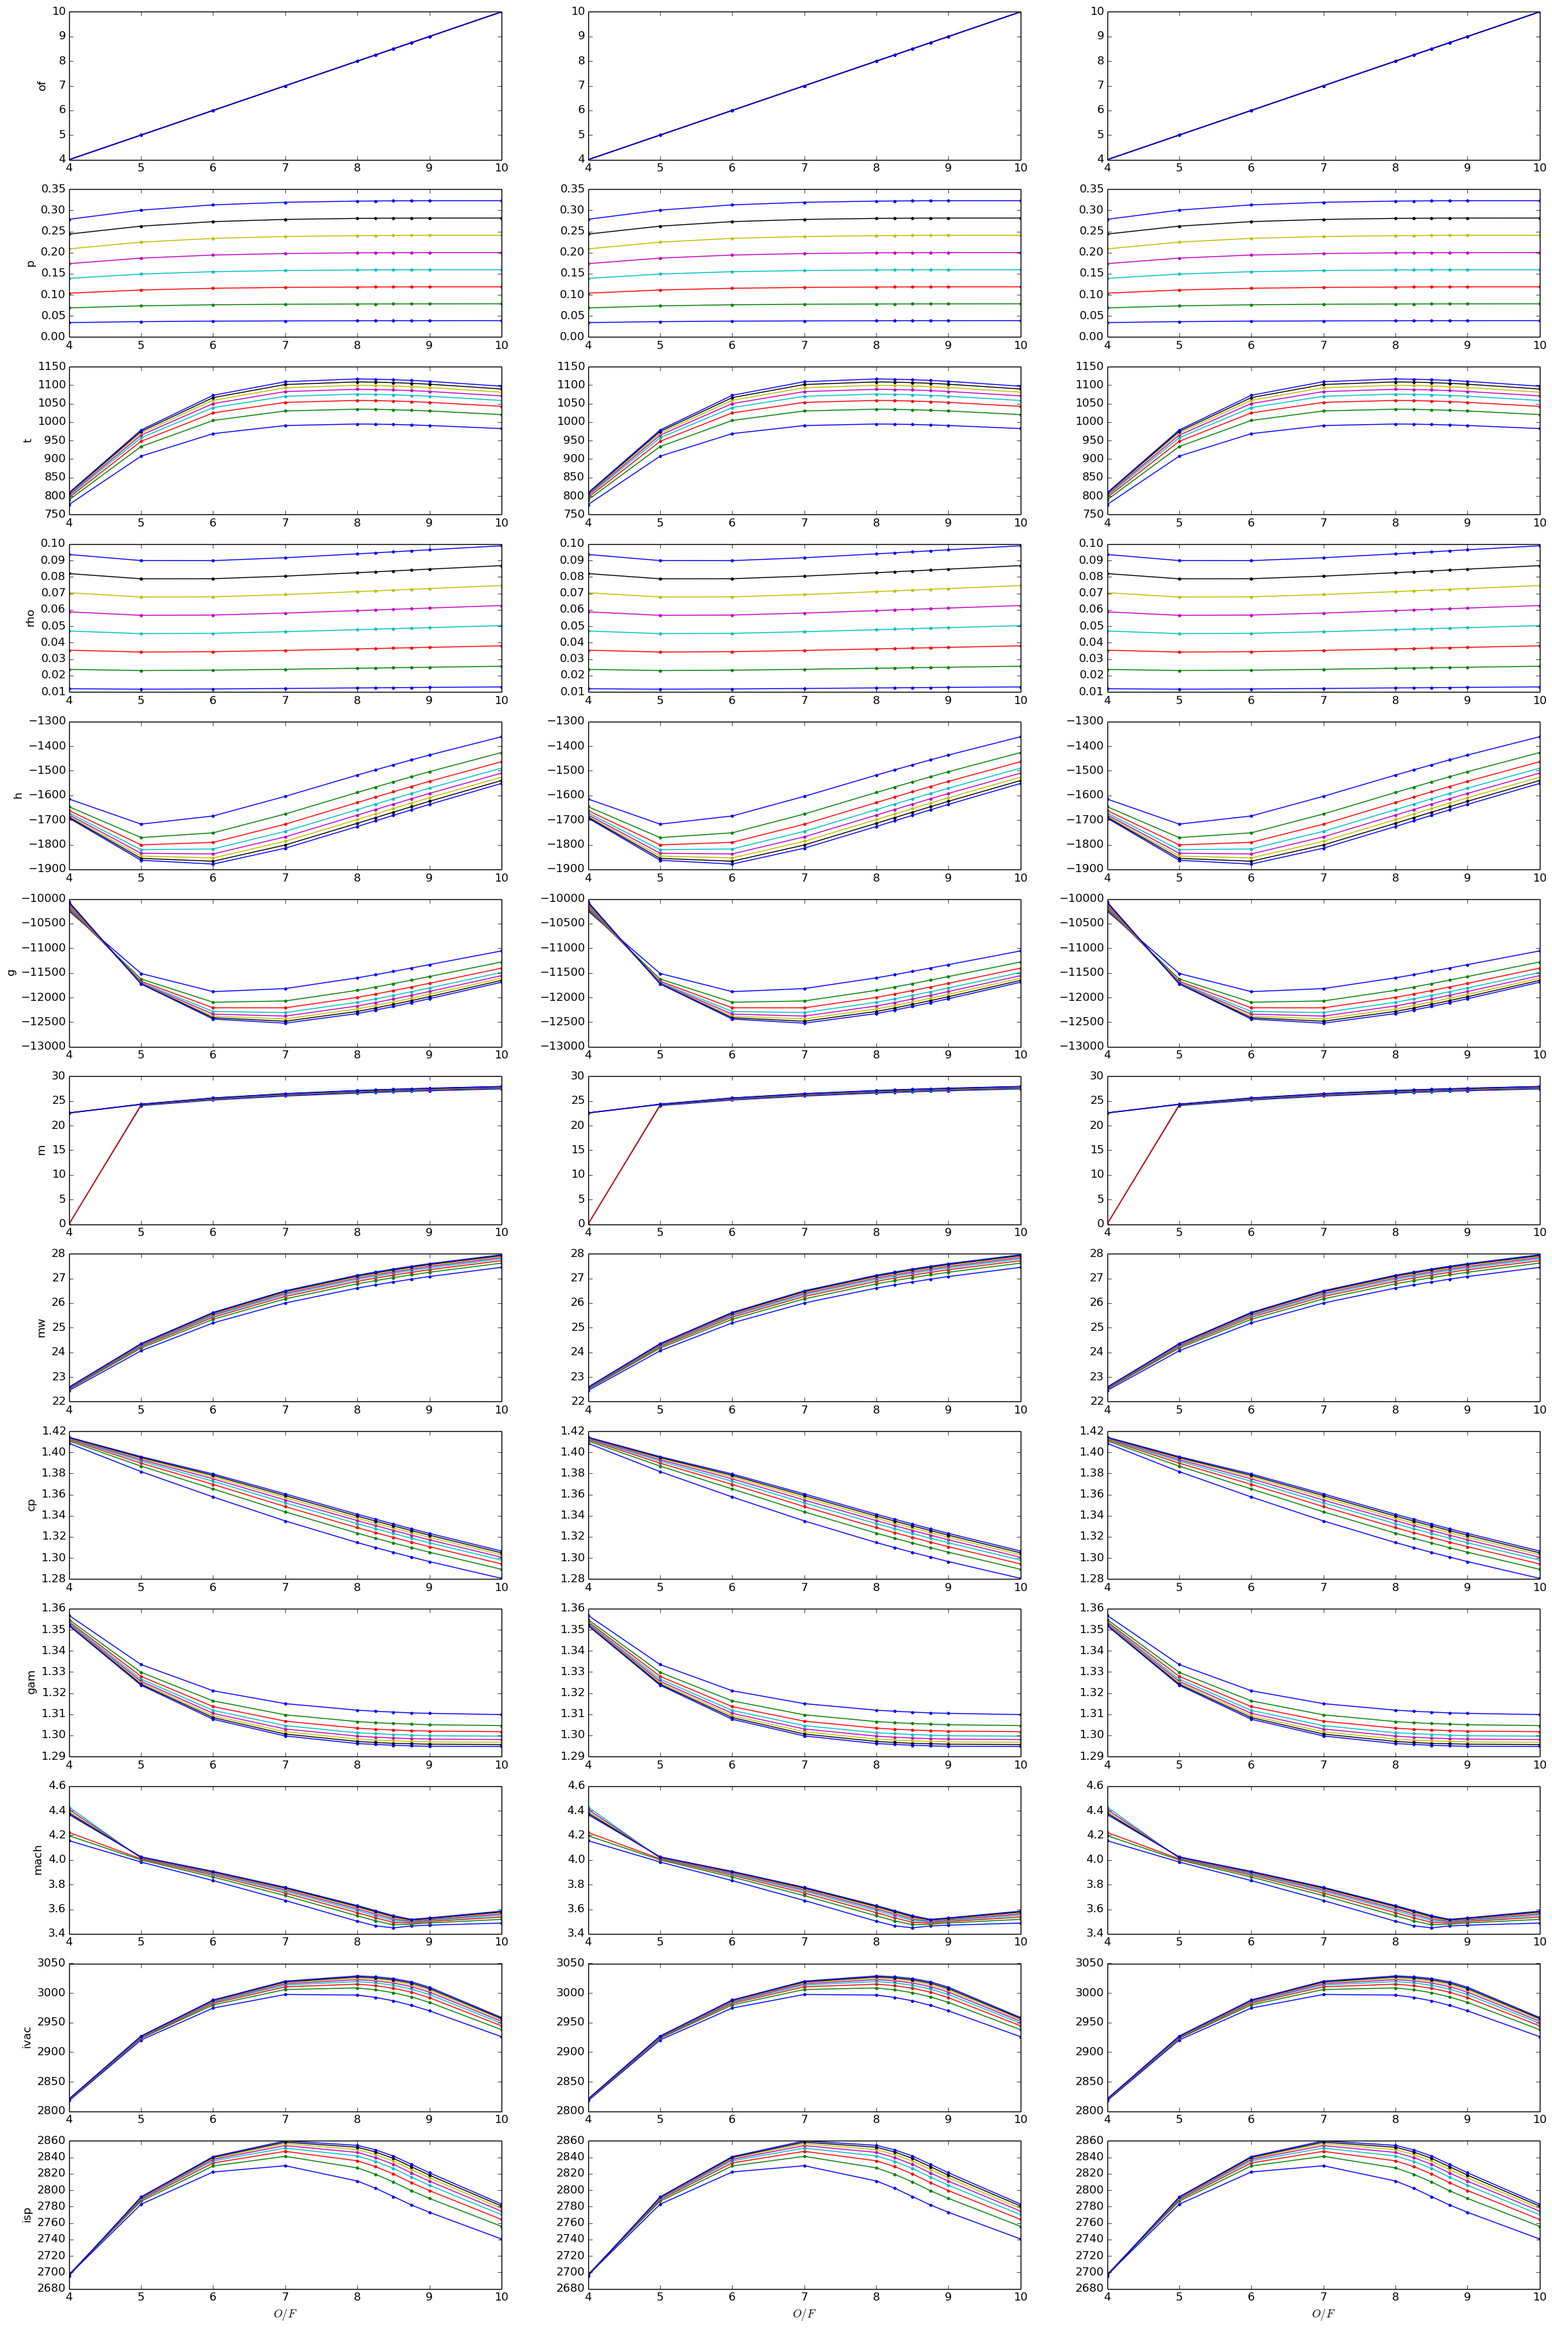
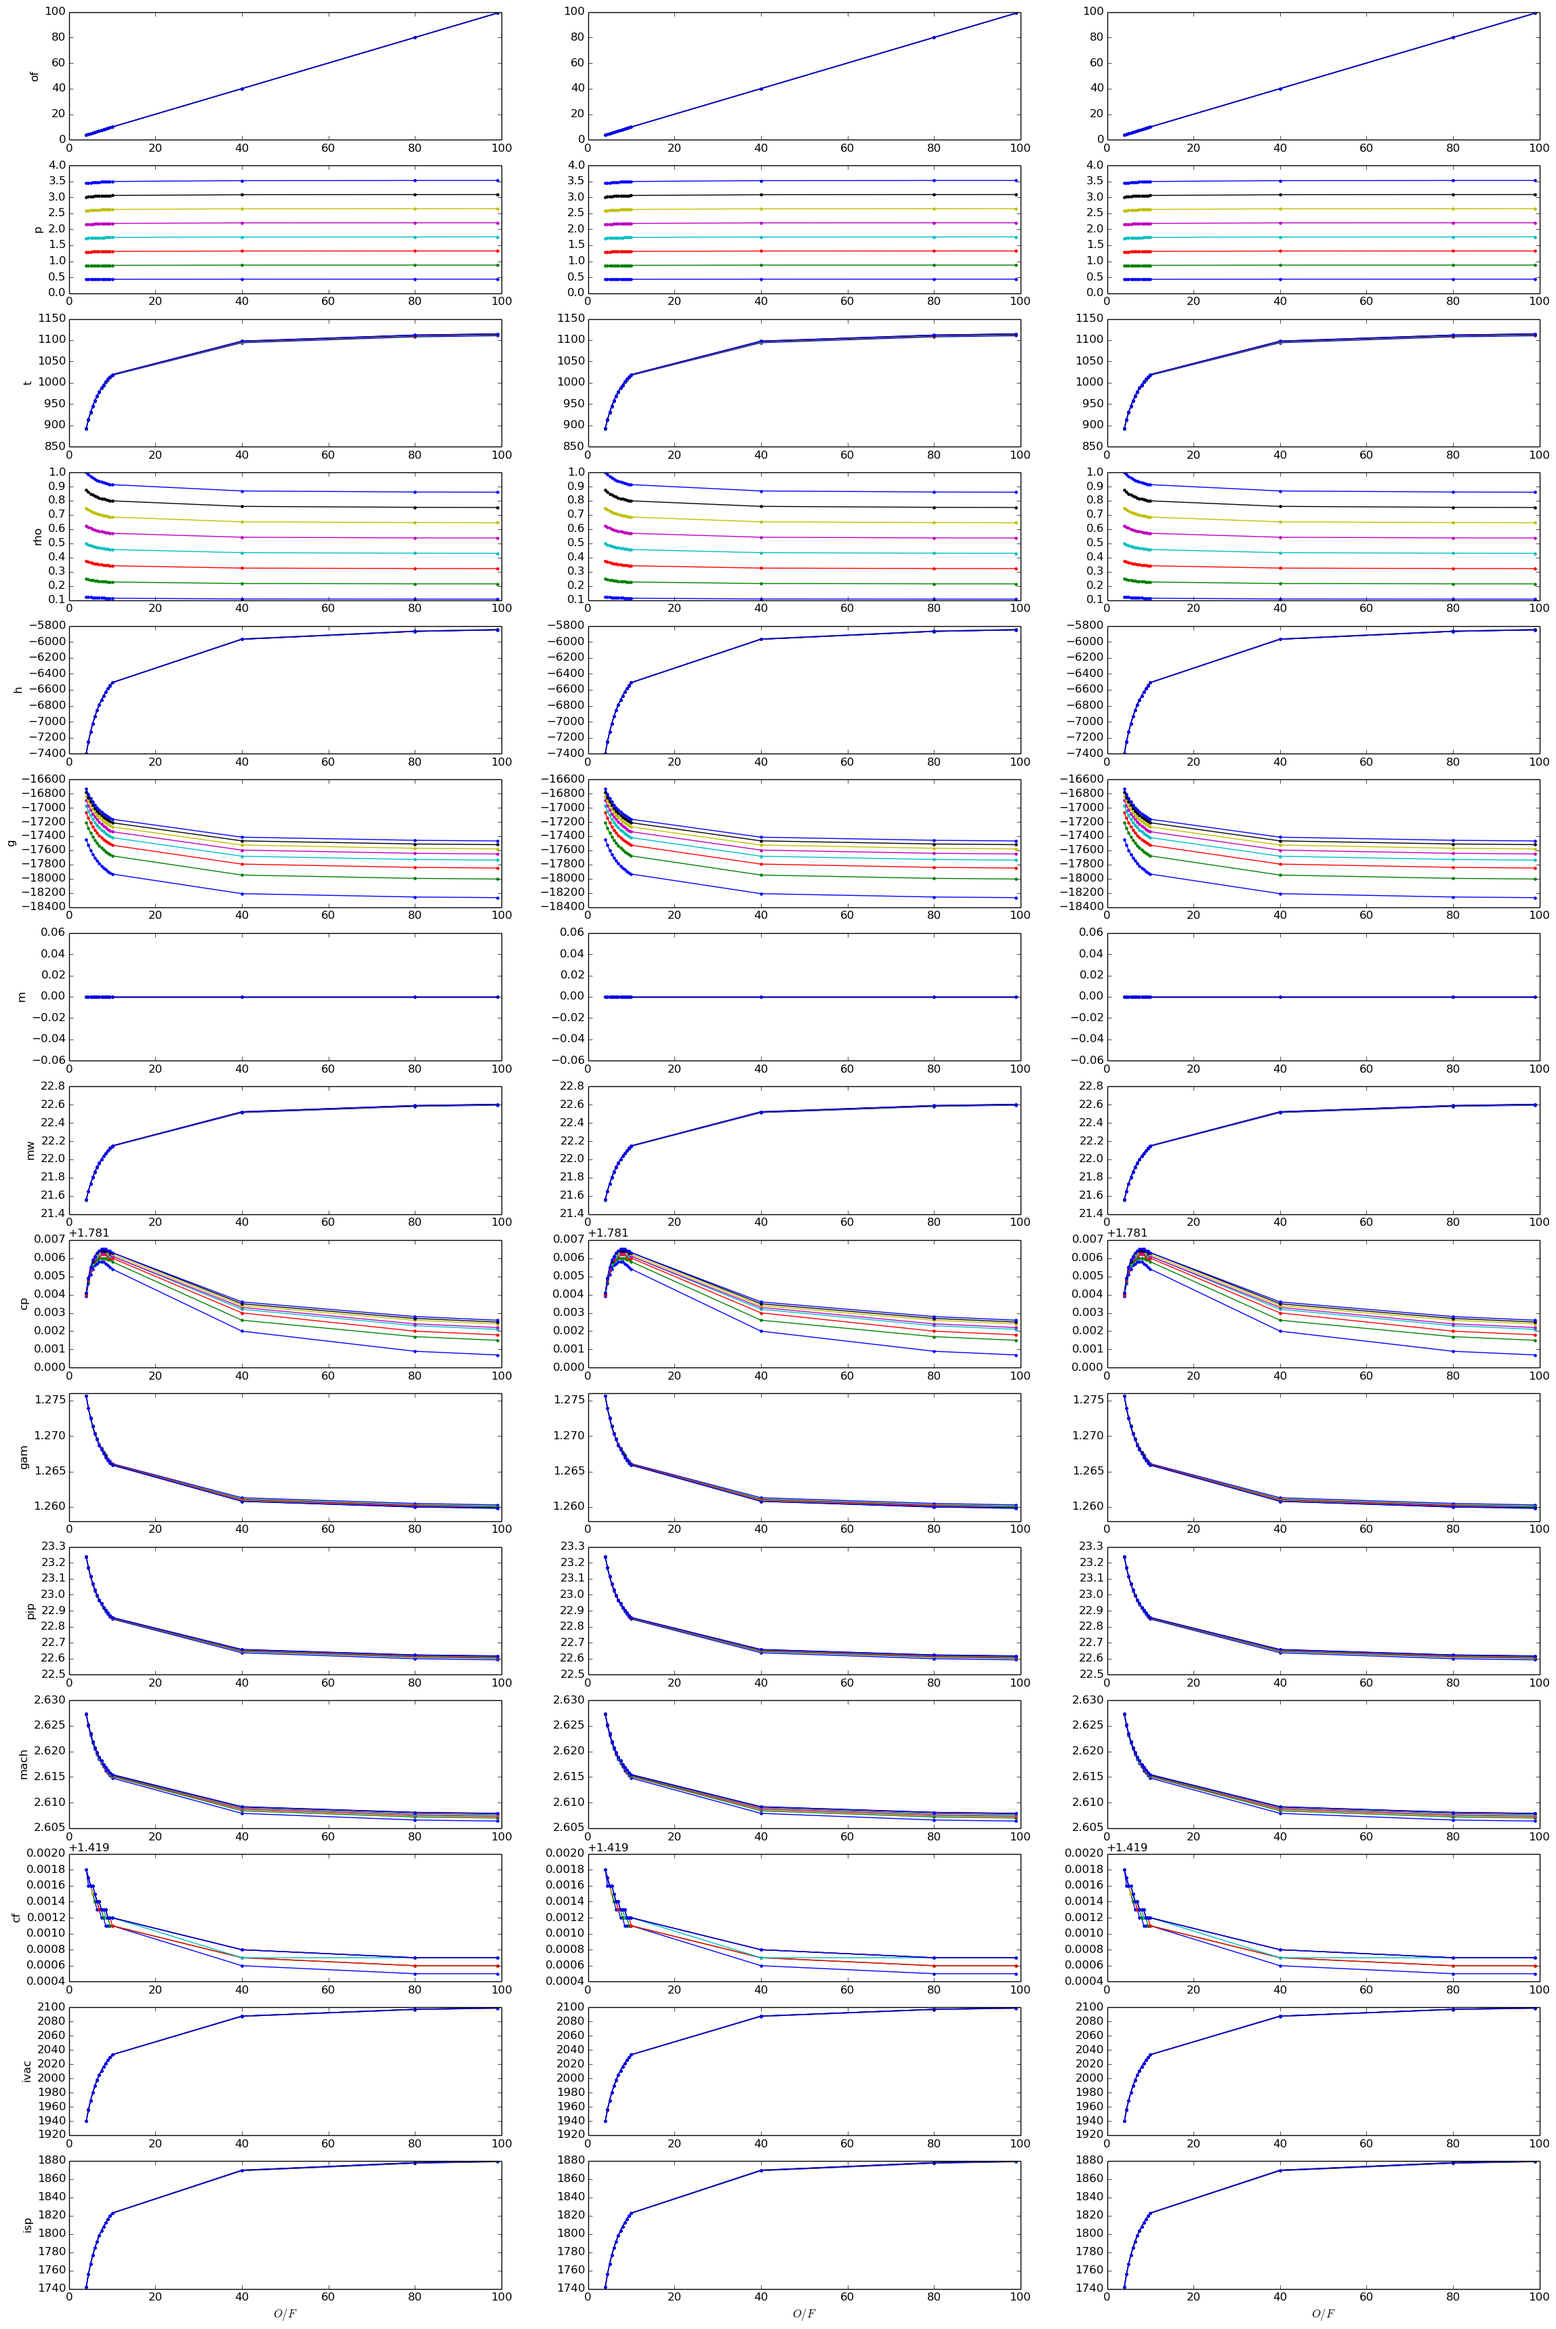
Shorter plot file

Changed region(s): [[0.0, 0.0, 1.0, 0.9962], [0.9611, 0.0, 0.9921, 0.0311]]

diff --git a/Project3/Plot_CEA/plot_stuff.py b/Project3/Plot_CEA/plot_stuff.py
@@ -24,23 +24,8 @@ def plot_data(xlabel,x,ylabel,y,filename):
 #user defined values
 # number of pressure values
 PS = 8
-OFS= 10
 
-#x=get_data('MAE5540_Nitrous_HTBN.plt')
 #x1=get_data_dtypes('MAE5540_Nitrous_HTBN.plt')
-#of  =x1['of']
-#p   =x1['p']
-#t   =x1['t']
-#rho =x1['rho']
-#h   =x1['h']
-#g   =x1['g']
-#m   =x1['m']
-#mw  =x1['mw']
-#cp  =x1['cp']
-#gam =x1['gam']
-#mach=x1['mach']
-#ivac=x1['ivac']
-#isp =x1['isp']
 
 x1=get_data_dtypes('Part1_try1.plt')
 #of  =x1['of']
@@ -58,280 +43,6 @@ x1=get_data_dtypes('Part1_try1.plt')
 #cf  =x1['cf']
 #ivac=x1['ivac']
 #isp =x1['isp']
-
-# fig=plt.figure(figsize=(28,42))
-# 
-# ax1=fig.add_subplot(14,3,1)
-# for i in range(0,3*PS,3):
-#     ax1.plot(of[i::3*PS],p[i::3*PS],'.-')
-# ax1.set_ylabel(r'$P$')
-# ax1.set_xlabel(r'$O/F$')
-# 
-# ax1=fig.add_subplot(14,3,2)
-# for i in range(1,3*PS,3):
-#     ax1.plot(of[i::3*PS],p[i::3*PS],'.-')
-# ax1.set_ylabel(r'$P$')
-# ax1.set_xlabel(r'$O/F$')
-# 
-# ax1=fig.add_subplot(14,3,3)
-# for i in range(2,3*PS,3):
-#     ax1.plot(of[i::3*PS],p[i::3*PS],'.-')
-# ax1.set_ylabel(r'$P$')
-# ax1.set_xlabel(r'$O/F$')
-# 
-# 
-# ax1=fig.add_subplot(14,3,4)
-# for i in range(0,3*PS,3):
-#     ax1.plot(of[i::3*PS],t[i::3*PS],'.-')
-# ax1.set_ylabel(r'$T$')
-# ax1.set_xlabel(r'$O/F$')
-# 
-# ax1=fig.add_subplot(14,3,5)
-# for i in range(1,3*PS,3):
-#     ax1.plot(of[i::3*PS],t[i::3*PS],'.-')
-# ax1.set_ylabel(r'$T$')
-# ax1.set_xlabel(r'$O/F$')
-# 
-# ax1=fig.add_subplot(14,3,6)
-# for i in range(2,3*PS,3):
-#     ax1.plot(of[i::3*PS],t[i::3*PS],'.-')
-# ax1.set_ylabel(r'$T$')
-# ax1.set_xlabel(r'$O/F$')
-# 
-# 
-# ax1=fig.add_subplot(14,3,7)
-# for i in range(0,3*PS,3):
-#     ax1.plot(of[i::3*PS],rho[i::3*PS],'.-')
-# ax1.set_ylabel(r'$\rho$')
-# ax1.set_xlabel(r'$O/F$')
-# 
-# ax1=fig.add_subplot(14,3,8)
-# for i in range(1,3*PS,3):
-#     ax1.plot(of[i::3*PS],rho[i::3*PS],'.-')
-# ax1.set_ylabel(r'$\rho$')
-# ax1.set_xlabel(r'$O/F$')
-# 
-# ax1=fig.add_subplot(14,3,9)
-# for i in range(2,3*PS,3):
-#     ax1.plot(of[i::3*PS],rho[i::3*PS],'.-')
-# ax1.set_ylabel(r'$\rho$')
-# ax1.set_xlabel(r'$O/F$')
-# 
-# 
-# ax1=fig.add_subplot(14,3,10)
-# for i in range(0,3*PS,3):
-#     ax1.plot(of[i::3*PS],h[i::3*PS],'.-')
-# ax1.set_ylabel(r'$h$')
-# ax1.set_xlabel(r'$O/F$')
-# 
-# ax1=fig.add_subplot(14,3,11)
-# for i in range(1,3*PS,3):
-#     ax1.plot(of[i::3*PS],h[i::3*PS],'.-')
-# ax1.set_ylabel(r'$h$')
-# ax1.set_xlabel(r'$O/F$')
-# 
-# ax1=fig.add_subplot(14,3,12)
-# for i in range(2,3*PS,3):
-#     ax1.plot(of[i::3*PS],h[i::3*PS],'.-')
-# ax1.set_ylabel(r'$h$')
-# ax1.set_xlabel(r'$O/F$')
-# 
-# 
-# ax1=fig.add_subplot(14,3,13)
-# for i in range(0,3*PS,3):
-#     ax1.plot(of[i::3*PS],g[i::3*PS],'.-')
-# ax1.set_ylabel(r'$g$')
-# ax1.set_xlabel(r'$O/F$')
-# 
-# ax1=fig.add_subplot(14,3,14)
-# for i in range(1,3*PS,3):
-#     ax1.plot(of[i::3*PS],g[i::3*PS],'.-')
-# ax1.set_ylabel(r'$g$')
-# ax1.set_xlabel(r'$O/F$')
-# 
-# ax1=fig.add_subplot(14,3,15)
-# for i in range(2,3*PS,3):
-#     ax1.plot(of[i::3*PS],g[i::3*PS],'.-')
-# ax1.set_ylabel(r'$g$')
-# ax1.set_xlabel(r'$O/F$')
-# 
-# 
-# ax1=fig.add_subplot(14,3,16)
-# for i in range(0,3*PS,3):
-#     ax1.plot(of[i::3*PS],m[i::3*PS],'.-')
-# ax1.set_ylabel(r'$m$')
-# ax1.set_xlabel(r'$O/F$')
-# 
-# ax1=fig.add_subplot(14,3,17)
-# for i in range(1,3*PS,3):
-#     ax1.plot(of[i::3*PS],m[i::3*PS],'.-')
-# ax1.set_ylabel(r'$m$')
-# ax1.set_xlabel(r'$O/F$')
-# 
-# ax1=fig.add_subplot(14,3,18)
-# for i in range(2,3*PS,3):
-#     ax1.plot(of[i::3*PS],m[i::3*PS],'.-')
-# ax1.set_ylabel(r'$m$')
-# ax1.set_xlabel(r'$O/F$')
-# 
-# 
-# ax1=fig.add_subplot(14,3,19)
-# for i in range(0,3*PS,3):
-#     ax1.plot(of[i::3*PS],mw[i::3*PS],'.-')
-# ax1.set_ylabel(r'$mw$')
-# ax1.set_xlabel(r'$O/F$')
-# 
-# ax1=fig.add_subplot(14,3,20)
-# for i in range(1,3*PS,3):
-#     ax1.plot(of[i::3*PS],mw[i::3*PS],'.-')
-# ax1.set_ylabel(r'$mw$')
-# ax1.set_xlabel(r'$O/F$')
-# 
-# ax1=fig.add_subplot(14,3,21)
-# for i in range(2,3*PS,3):
-#     ax1.plot(of[i::3*PS],mw[i::3*PS],'.-')
-# ax1.set_ylabel(r'$mw$')
-# ax1.set_xlabel(r'$O/F$')
-# 
-# 
-# ax1=fig.add_subplot(14,3,22)
-# for i in range(0,3*PS,3):
-#     ax1.plot(of[i::3*PS],cp[i::3*PS],'.-')
-# ax1.set_ylabel(r'$cp$')
-# ax1.set_xlabel(r'$O/F$')
-# 
-# ax1=fig.add_subplot(14,3,23)
-# for i in range(1,3*PS,3):
-#     ax1.plot(of[i::3*PS],cp[i::3*PS],'.-')
-# ax1.set_ylabel(r'$cp$')
-# ax1.set_xlabel(r'$O/F$')
-# 
-# ax1=fig.add_subplot(14,3,24)
-# for i in range(2,3*PS,3):
-#     ax1.plot(of[i::3*PS],cp[i::3*PS],'.-')
-# ax1.set_ylabel(r'$cp$')
-# ax1.set_xlabel(r'$O/F$')
-# 
-# 
-# ax1=fig.add_subplot(14,3,25)
-# for i in range(0,3*PS,3):
-#     ax1.plot(of[i::3*PS],gam[i::3*PS],'.-')
-# ax1.set_ylabel(r'$gam$')
-# ax1.set_xlabel(r'$O/F$')
-# 
-# ax1=fig.add_subplot(14,3,26)
-# for i in range(1,3*PS,3):
-#     ax1.plot(of[i::3*PS],gam[i::3*PS],'.-')
-# ax1.set_ylabel(r'$gam$')
-# ax1.set_xlabel(r'$O/F$')
-# 
-# ax1=fig.add_subplot(14,3,27)
-# for i in range(2,3*PS,3):
-#     ax1.plot(of[i::3*PS],gam[i::3*PS],'.-')
-# ax1.set_ylabel(r'$gam$')
-# ax1.set_xlabel(r'$O/F$')
-# 
-# 
-# ax1=fig.add_subplot(14,3,28)
-# for i in range(0,3*PS,3):
-#     ax1.plot(of[i::3*PS],mach[i::3*PS],'.-')
-# ax1.set_ylabel(r'$mach$')
-# ax1.set_xlabel(r'$O/F$')
-# 
-# ax1=fig.add_subplot(14,3,29)
-# for i in range(1,3*PS,3):
-#     ax1.plot(of[i::3*PS],mach[i::3*PS],'.-')
-# ax1.set_ylabel(r'$mach$')
-# ax1.set_xlabel(r'$O/F$')
-# 
-# ax1=fig.add_subplot(14,3,30)
-# for i in range(2,3*PS,3):
-#     ax1.plot(of[i::3*PS],mach[i::3*PS],'.-')
-# ax1.set_ylabel(r'$mach$')
-# ax1.set_xlabel(r'$O/F$')
-# 
-# 
-# ax1=fig.add_subplot(14,3,31)
-# for i in range(0,3*PS,3):
-#     ax1.plot(of[i::3*PS],ivac[i::3*PS],'.-')
-# ax1.set_ylabel(r'$ivac$')
-# ax1.set_xlabel(r'$O/F$')
-# 
-# ax1=fig.add_subplot(14,3,32)
-# for i in range(1,3*PS,3):
-#     ax1.plot(of[i::3*PS],ivac[i::3*PS],'.-')
-# ax1.set_ylabel(r'$ivac$')
-# ax1.set_xlabel(r'$O/F$')
-# 
-# ax1=fig.add_subplot(14,3,33)
-# for i in range(2,3*PS,3):
-#     ax1.plot(of[i::3*PS],ivac[i::3*PS],'.-')
-# ax1.set_ylabel(r'$ivac$')
-# ax1.set_xlabel(r'$O/F$')
-# 
-# 
-# ax1=fig.add_subplot(14,3,34)
-# for i in range(0,3*PS,3):
-#     ax1.plot(of[i::3*PS],isp[i::3*PS],'.-')
-# ax1.set_ylabel(r'$isp$')
-# ax1.set_xlabel(r'$O/F$')
-# 
-# ax1=fig.add_subplot(14,3,35)
-# for i in range(1,3*PS,3):
-#     ax1.plot(of[i::3*PS],isp[i::3*PS],'.-')
-# ax1.set_ylabel(r'$isp$')
-# ax1.set_xlabel(r'$O/F$')
-# 
-# ax1=fig.add_subplot(14,3,36)
-# for i in range(2,3*PS,3):
-#     ax1.plot(of[i::3*PS],isp[i::3*PS],'.-')
-# ax1.set_ylabel(r'$isp$')
-# ax1.set_xlabel(r'$O/F$')
-# 
-# 
-# ax1=fig.add_subplot(14,3,37)
-# for i in range(0,3*PS,3):
-#     ax1.plot(of[i::3*PS],pip[i::3*PS],'.-')
-# ax1.set_ylabel(r'$pip$')
-# ax1.set_xlabel(r'$O/F$')
-# 
-# ax1=fig.add_subplot(14,3,38)
-# for i in range(1,3*PS,3):
-#     ax1.plot(of[i::3*PS],pip[i::3*PS],'.-')
-# ax1.set_ylabel(r'$pip$')
-# ax1.set_xlabel(r'$O/F$')
-# 
-# ax1=fig.add_subplot(14,3,39)
-# for i in range(2,3*PS,3):
-#     ax1.plot(of[i::3*PS],pip[i::3*PS],'.-')
-# ax1.set_ylabel(r'$pip$')
-# ax1.set_xlabel(r'$O/F$')
-# 
-# 
-# ax1=fig.add_subplot(14,3,40)
-# for i in range(0,3*PS,3):
-#     ax1.plot(of[i::3*PS],cf[i::3*PS],'.-')
-# ax1.set_ylabel(r'$cf$')
-# ax1.set_xlabel(r'$O/F$')
-# 
-# ax1=fig.add_subplot(14,3,41)
-# for i in range(1,3*PS,3):
-#     ax1.plot(of[i::3*PS],cf[i::3*PS],'.-')
-# ax1.set_ylabel(r'$cf$')
-# ax1.set_xlabel(r'$O/F$')
-# 
-# ax1=fig.add_subplot(14,3,42)
-# for i in range(2,3*PS,3):
-#     ax1.plot(of[i::3*PS],cf[i::3*PS],'.-')
-# ax1.set_ylabel(r'$cf$')
-# ax1.set_xlabel(r'$O/F$')
-# 
-# 
-# fig.savefig('all.png',bbox_inches='tight')
-
-
-
-
 
 fig=plt.figure(figsize=(28,42))
 n=1
